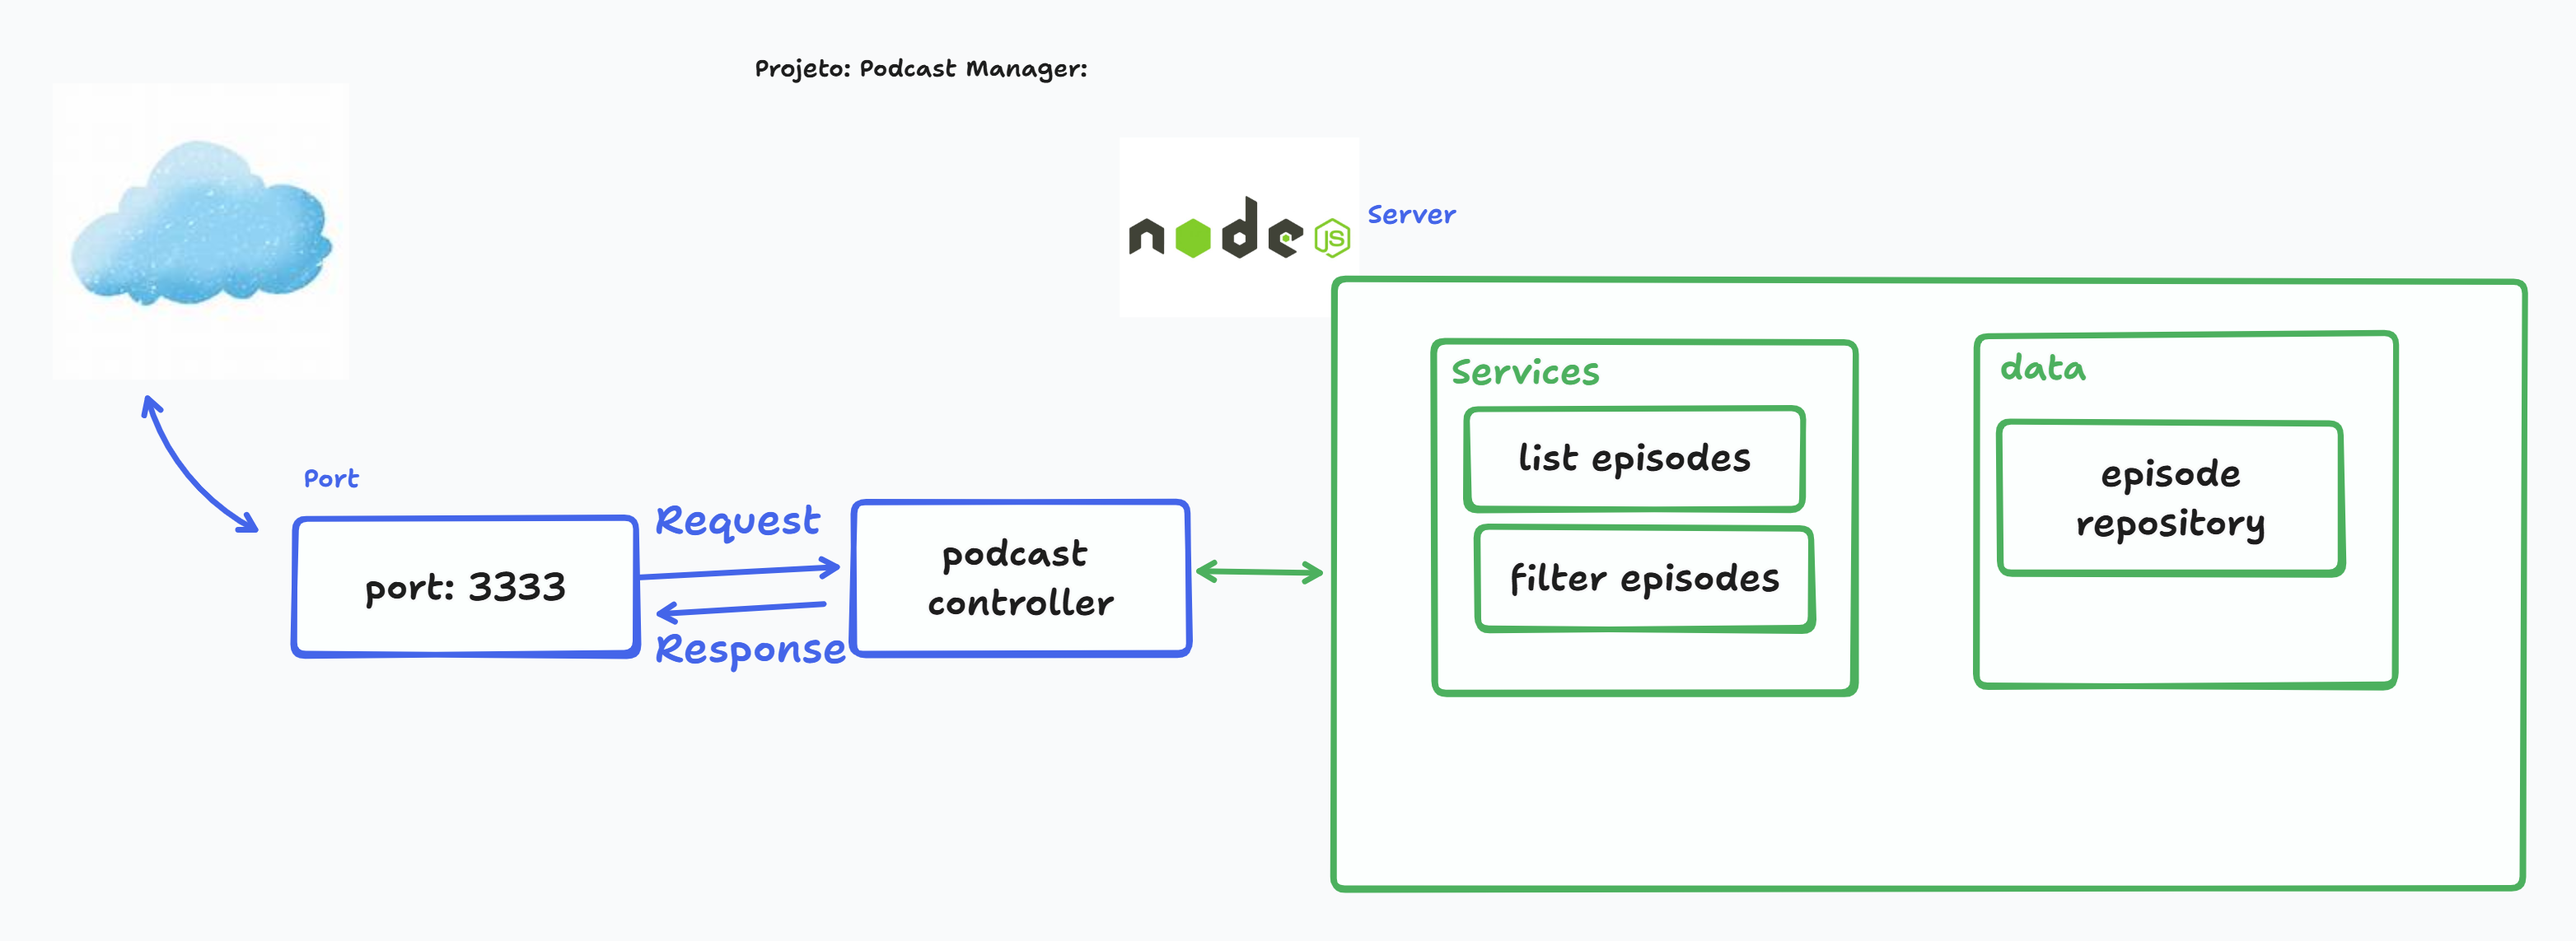
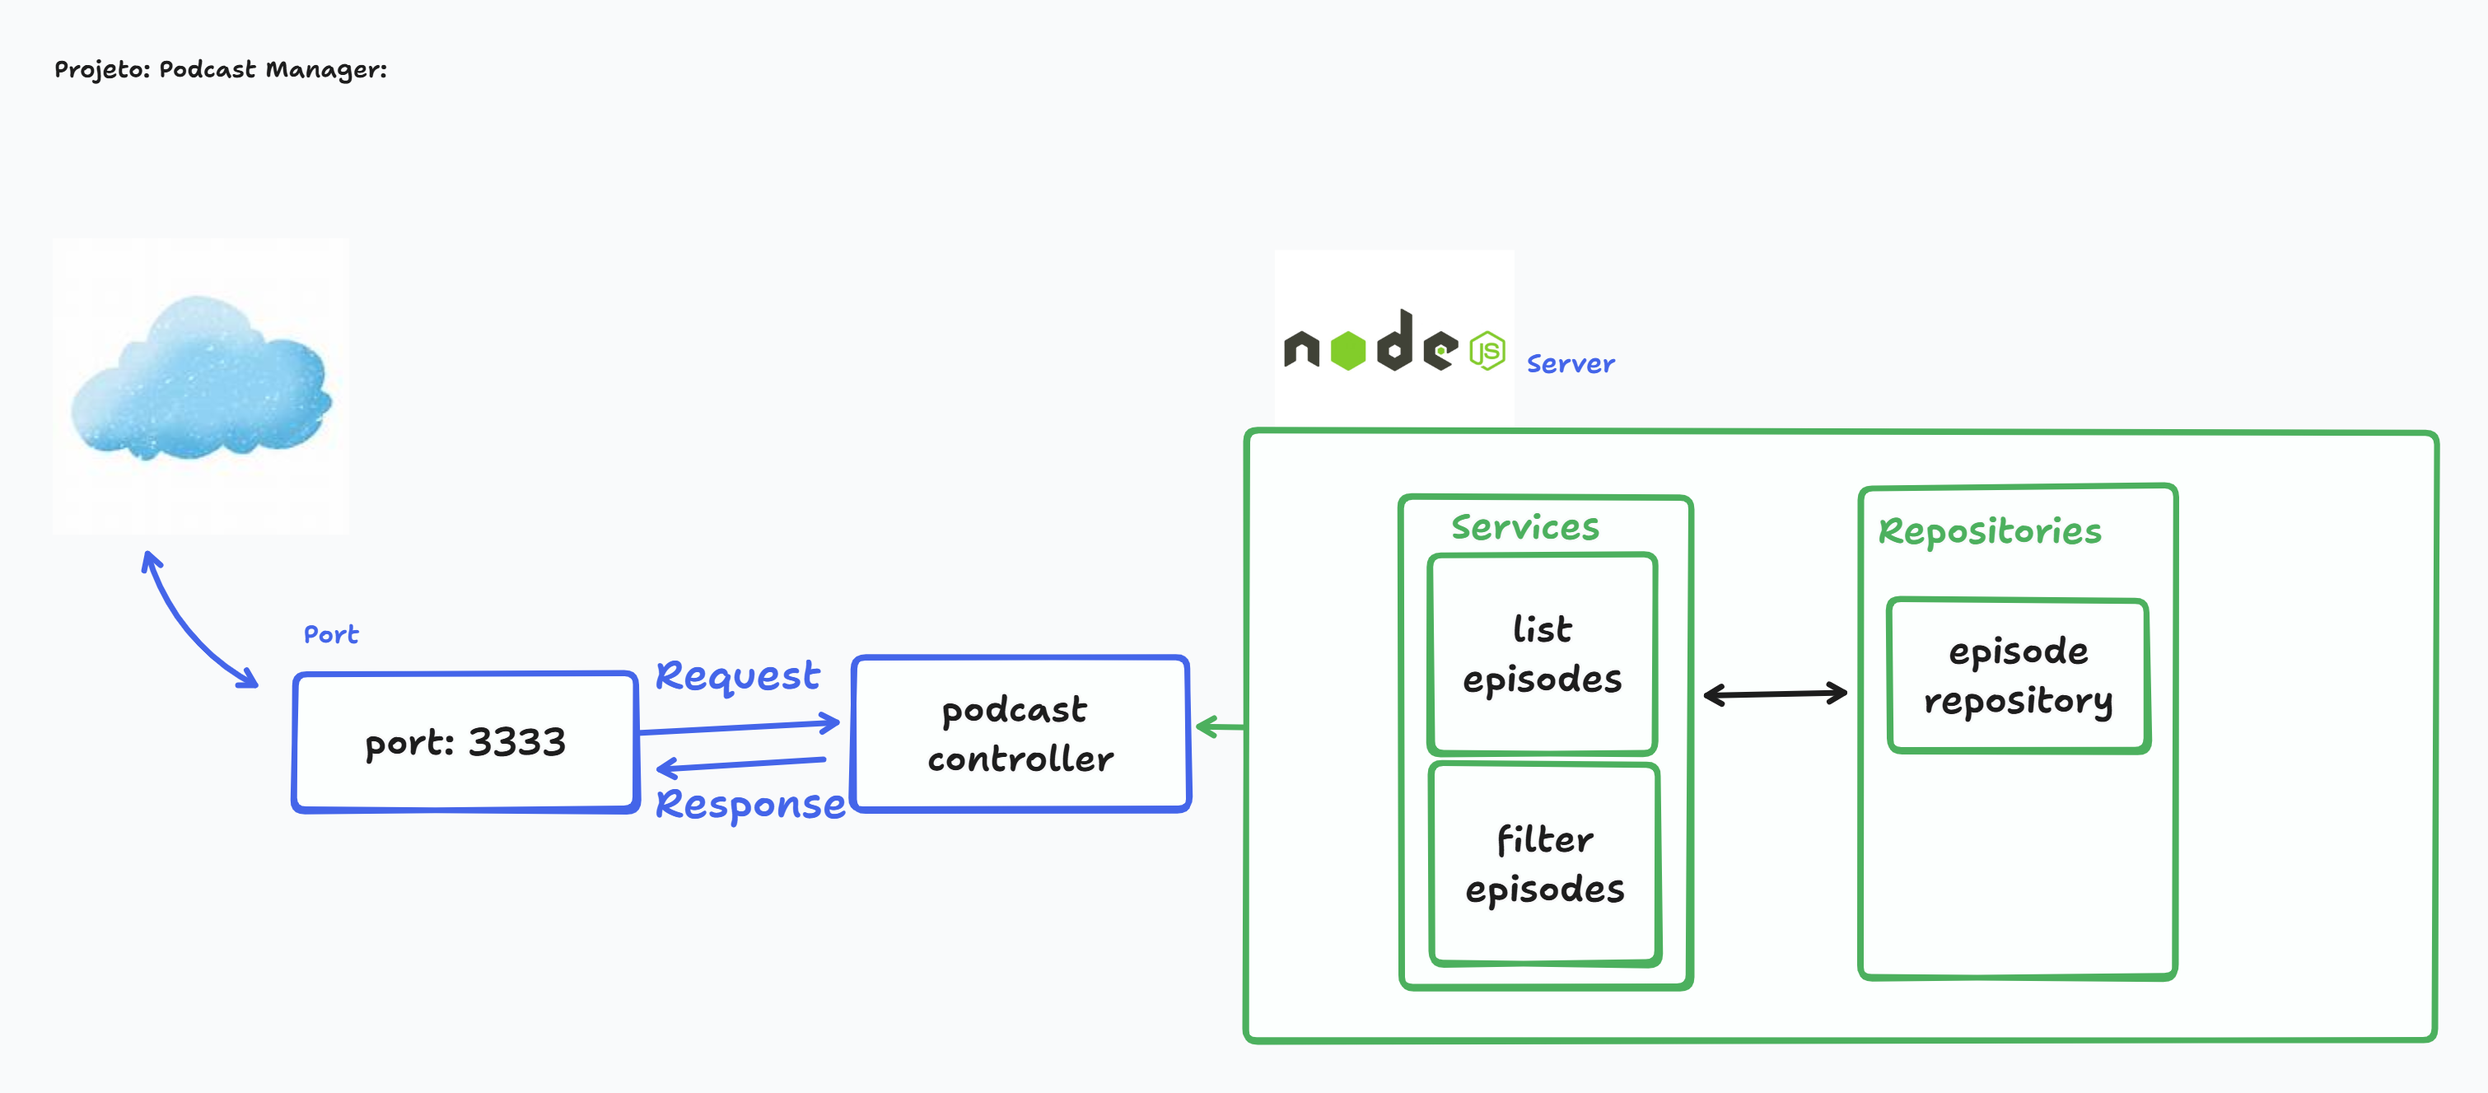
JLA - Criação das camadas de Services, repositories, refatoração do código

diff --git a/src/server.ts b/src/server.ts
@@ -1,6 +1,6 @@
 import * as http from "http";
 import * as dotenv from "dotenv";
-import {getListEpisodes} from "./controllers/podcasts_controller";
+import {getListEpisodes} from "./controllers/podcasts-controller";
 
 const server = http.createServer( async (req: http.IncomingMessage,
     res: http.ServerResponse) => {
@@ -8,12 +8,12 @@ const server = http.createServer( async (req: http.IncomingMessage,
             await getListEpisodes(req, res);
         }
     }
-);
+);                                                              
 
 dotenv.config();
 const port = process.env.PORT;
 
 server.listen(port, () =>{
-    console.log(`Servidor iniciado na porta ${port}`);
+    console.log(`Servidor iniciado na porta ${ port }`);
 });
 

diff --git a/src/repositories/podcasts-repository.ts b/src/repositories/podcasts-repository.ts
@@ -1,0 +1,12 @@
+import fs from "fs";
+import path from "path";
+import { Podcast } from "../models/podcast-model";
+
+
+const pathData = path.join(__dirname, "../repositories/podcasts.json");
+
+export const repositoryPodcast = async (): Promise<Podcast[]> => {
+    const rawData = fs.readFileSync(pathData, "utf-8");
+    const jsonFile = JSON.parse(rawData);
+    return jsonFile;
+};

diff --git a/src/controllers/podcasts-controller.ts b/src/controllers/podcasts-controller.ts
@@ -1,0 +1,12 @@
+import { serviceListEpisodes } from "../services/list-episodes-services";
+
+
+export const getListEpisodes = async (req: IncomingMessage,res: ServerResponse) => {
+
+    const content = await serviceListEpisodes();
+    
+    res.writeHead(200, {'content-type': 'application/json'});
+    res.end(
+        JSON.stringify(content));
+}
+

diff --git a/src/services/list-episodes-services.ts b/src/services/list-episodes-services.ts
@@ -1,0 +1,7 @@
+import { repositoryPodcast } from "../repositories/podcasts-repository";
+
+export const serviceListEpisodes = async () => {
+    const data = await repositoryPodcast();
+    return data;
+};
+

diff --git a/src/models/podcast-model.ts b/src/models/podcast-model.ts
@@ -1,0 +1,6 @@
+export interface Podcast {
+    podcastName: string;
+    episodeName: string;
+    videoId: string;
+    categories: string[];
+}

diff --git a/docs/app.md b/docs/app.md
@@ -12,11 +12,12 @@
 ### Funcionalidade(s):
 
     1 - Listar os episódios dos Podcasts em sessões por categorias
-        Saúde
-        Fitness
-        Mentalidade
-        Humor
-        Esporte
+       [ Saúde
+         Fitness
+         Mentalidade
+         Humor
+         Esporte
+       ]
 
     2 - Filtrar episódios por nome de Podcast
 
@@ -37,8 +38,6 @@
         podcastName: "Flow",
         episodeName: "CRUM - Flow #467",
         videoId: "TECEWo71Qjc",
-        coverImage: "https://i.ytimg.com/vi/TECEWo71Qjc/maxresdefault.jpg?sqp=-oaymwEnCNACELwBSFryq4qpAxkIARUAAIhCGAHYAQHiAQoIGBACGAY4AUAB&rs=AOn4CLAy-SnhfOi22wWCi77e7xh3tdYLew",
-        linkName: "https://www.youtube.com/watch?v=TECEWo71Qjc&t=21s";
         categories: ["saúde", "bodybuilder"]
     }
 

diff --git a/README.md b/README.md
@@ -17,7 +17,7 @@
     NodeJs: ^22.16.0
     Npm: ^11.4.1
     
-### 💻 Client
+### 💻 API Client
     Postman: ^11.54.3
     Thunder Client ^2.37.2  (Extensão VsCode)
 
